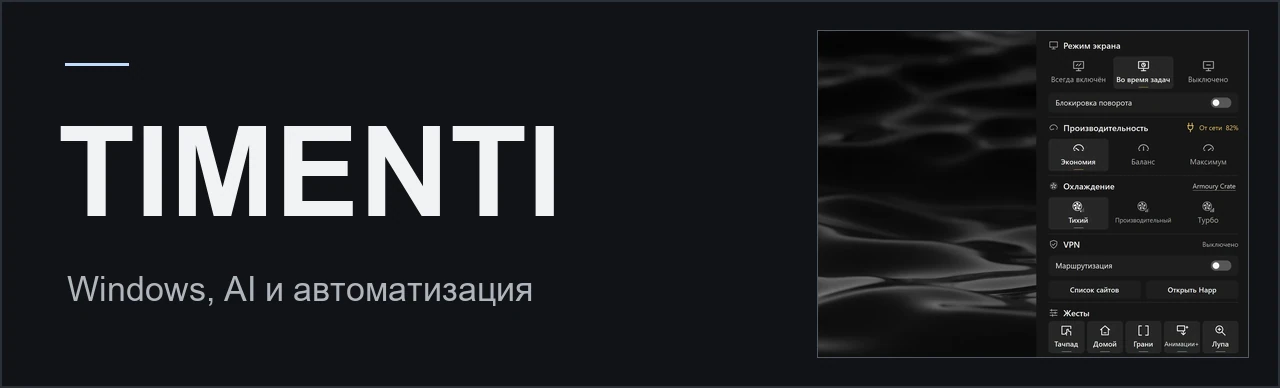
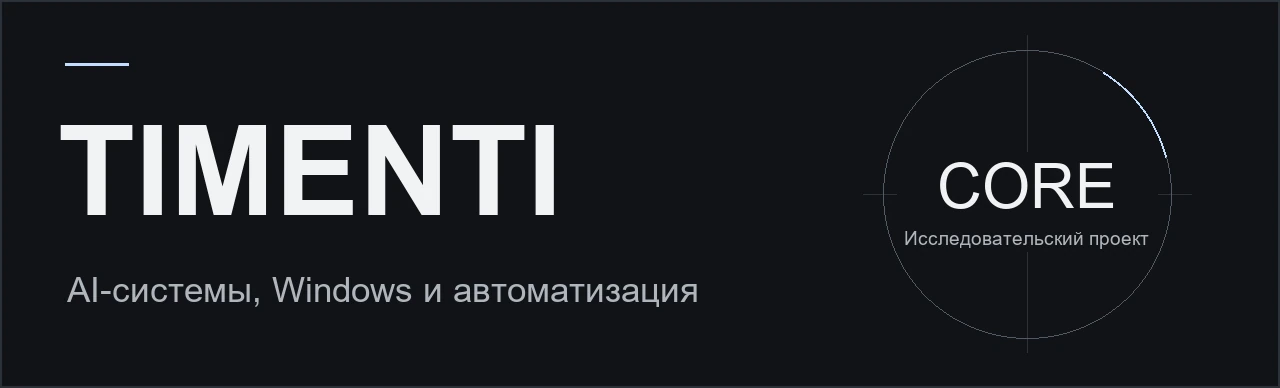
Lead with CORE and describe the TIMENTI portfolio

diff --git a/README.md b/README.md
@@ -1,21 +1,72 @@
-<img src="assets/timenti-header.webp" width="1280" alt="TIMENTI. Разработка для Windows и автоматизация. Справа — боковая панель ModeTapper.">
+<img src="assets/timenti-header.webp" width="1280" alt="TIMENTI. AI-системы, Windows и автоматизация. CORE — главный исследовательский проект.">
 
 # TIMENTI
 
-Разрабатываю утилиты для Windows, AI-продукты и системы автоматизации. Веду проекты от логики и интерфейса до сборки, установщика и публикации релиза.
+Проектирую AI-системы и выпускаю прикладные продукты. Работаю с долговременной памятью и голосом, сетевыми адаптерами Windows, прошивками ESP32 и веб-сервисами. Веду проект от архитектуры и интерфейса до сборки, проверки на устройстве и публикации.
 
-[Портфолио](https://timenti.com/) · [Открытые репозитории](https://github.com/timenti?tab=repositories)
+[Портфолио TIMENTI](https://timenti.com/) · [Открытые репозитории](https://github.com/timenti?tab=repositories)
 
-## Проекты на GitHub
+## CORE
+
+**Главный исследовательский проект · в разработке**
+
+CORE — персональная AI-система с непрерывной историей. Проектирую, как ей сохранять смысл событий, решений и незавершённых задач между сеансами, возвращаться к ним по собственной инициативе и переносить контекст между компьютером, телефоном и голосовым интерфейсом.
+
+- **Память и контекст.** Хронология событий, связи между людьми и проектами, происхождение записей и возможность исправить устаревшие сведения.
+- **Инициатива.** Возврат к важным событиям и незавершённой работе с учётом заданных границ действий.
+- **Инструменты.** Работа с задачами, файлами и устройствами через разрешённые операции с проверяемым результатом.
+- **Голос и цифровое воплощение.** Исследую способы сохранить одну историю и контекст в разговоре, на экране и в виртуальном пространстве.
+
+CORE находится на стадии архитектуры и поэтапной реализации. Публичная презентация описывает целевую систему и сценарии, которые предстоит подтвердить испытаниями.
+
+[Концепция и архитектура CORE](https://timenti.com/projects/core/)
+
+## AI и продукты
+
+### [VOXNORI](https://timenti.com/projects/voxnori/) · Public Alpha
+
+Веб-приложение для работы с аудиозаписями. Собирает расшифровку, краткое содержание, решения и поручения. Выводы связаны с репликами и таймкодами, чтобы к ним можно было вернуться в исходной записи.
+
+### [Plennor](https://timenti.com/projects/plennor/) · Public Alpha
+
+Персональный планировщик, в котором задачи, календарь и питание связаны с планом на день. Доступен как веб-приложение.
+
+### [FinFact](https://timenti.com/projects/finfact/) · опубликован
+
+Аналитика инвестиционного портфеля с доступом на чтение. Показывает состав, источники данных и риски, чтобы можно было сверить выводы с исходными сведениями.
+
+### [A.I.S.T.](https://timenti.com/projects/aist/) · в разработке
+
+Аналитика рынка цифровых предметов CS2. Проект объединяет свойства предметов, предложения и продажи с разных площадок, комиссии и ликвидность. Стратегия и проверка риска определяют, при каких условиях сценарий может перейти от оценки к действию.
+
+### [MaxBot](https://timenti.com/projects/maxbot/) · опубликован
+
+Программа для информационных ботов в MAX. Организации подключают своих ботов, редактируют контент и управляют сотрудниками из общей панели с раздельным доступом по компаниям.
+
+## Windows и устройства
 
 ### [ModeTapper](https://github.com/timenti/ModeTapper)
 
-Карусель окон, жесты тачпада и сенсорного экрана, управление питанием и охлаждением Windows. Основная модель — ASUS ROG Flow Z13 (2025, GZ302EA).
+Системная панель для Windows 11, которую разрабатываю прежде всего для **ASUS ROG Flow Z13 (2025, GZ302EA)**. В одном приложении собраны карусель окон, жесты тачпада и сенсорного экрана, управление питанием и охлаждением, лупа и виджеты рабочего стола. Установщик поддерживает дополнительные компоненты камер и маршрутизации через Happ.
 
 [Демонстрации](https://timenti.github.io/ModeTapper/) · [Скачать для Windows](https://github.com/timenti/ModeTapper/releases/latest)
 
 ### [NetSwitchPro](https://github.com/timenti/NetSwitchPro)
 
-Портативная утилита на C# и .NET 8 для переключения двух выбранных сетевых адаптеров. Показывает их состояние и ведёт журнал операций.
+Портативная утилита на C# и .NET 8 для переключения двух выбранных сетевых адаптеров. Использует WMI для управления состоянием, показывает результат в интерфейсе и ведёт журнал операций. Эту задачу сначала проверял в более ранних прототипах сетевого переключателя.
 
 [Код и руководство](https://github.com/timenti/NetSwitchPro#readme)
+
+### AirPen · аппаратный прототип
+
+Прошивка для M5Stack StickS3 на ESP32-S3 и помощник для Windows. Управление курсором движением устройства через Bluetooth, голосовая диктовка и экранные утилиты. Прошивка проверяется на физическом устройстве. Автономный голосовой клиент развивается отдельно.
+
+### NanoKVM Pro
+
+Интеграция аппаратной удалённой консоли в рабочее место. Использую отдельный канал для просмотра экрана и управления клавиатурой и мышью.
+
+## Внутренние инструменты
+
+- **AI_CORE** — локальный исполнитель для Windows и центр диагностики. В одном интерфейсе собраны средства управления разрешёнными приложениями, голосовые модули и состояние интеграций.
+- **I** — система долговременного контекста для разработки. Хранит решения, источники и точки продолжения работы над проектами.
+- **TIMENTI Web** — сайт с проектами, архитектурными презентациями и демонстрациями продуктов. Отдельный сервис обращений обрабатывает диалоги и отзывы и отправляет уведомления в Telegram.
